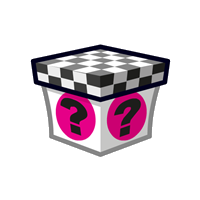
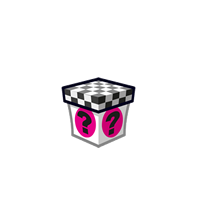
correcciones de  tamaños de cajas y funciones de recompensa

Changed region(s): [[0.15, 0.21, 0.87, 0.81]]

diff --git a/FRONTEND/juego/js/cajasSorpresa/box.js b/FRONTEND/juego/js/cajasSorpresa/box.js
@@ -6,20 +6,21 @@ var boxes={
 	2:{"root":"../img/componentes/cajas/caja2.png","rootOpen":"../img/componentes/cajas/caja2explosion.png"},
 	3:{"root":"../img/componentes/cajas/caja3.png","rootOpen":"../img/componentes/cajas/caja3explosion.png"},
 	4:{"root":"../img/componentes/cajas/caja4.png","rootOpen":"../img/componentes/cajas/caja4explosion.png"},
-	5:{"root":"../img/componentes/cajas/caja8.png","rootOpen":"../img/componentes/cajas/caja8explosion.png"},
+	5:{"root":"../img/componentes/cajas/caja5.png","rootOpen":"../img/componentes/cajas/caja5explosion.png"},
 	6:{"root":"../img/componentes/cajas/caja6.png","rootOpen":"../img/componentes/cajas/caja6explosion.png"},
 	7:{"root":"../img/componentes/cajas/caja7.png","rootOpen":"../img/componentes/cajas/caja7explosion.png"},
 	8:{"root":"../img/componentes/cajas/caja8.png","rootOpen":"../img/componentes/cajas/caja8explosion.png"}
 }
 var boxesDes ={
 	"boxMistery":{
-		"nameBox":["caja 1","caja2","caja 3","caja 4","caja 5","caja 6","caja 7"],
+		"nameBox":["caja 1","caja 2","caja 3","caja 4","caja 5","caja 6","caja 7","caja 8"],
 		"desc":["Esta caja ayudara al usuario con tiempo extra \n(20 segundos) para poder derrotar a su oponente.",
                  "Esta caja ayudara al usuario \ncon un aumento de la barra de energía. ",
                  "Esta caja ayudara al usuario \ncon una porción  pequeña de vida.",
-                 "Esta caja ayudara al usuario \ncon mayor velocidad a la hora de atacar.",
-                 "Esta caja deshabilitará el poder \nde ataque del usuario por 5 segundos",
-                 "Esta caja deshabilitará el poder \nde ataque del usuario por 10 segundos",
-                 "Esta caja deshabilitará el poder \nde ataque del usuario por 10 segundos"]
+                 "Esta caja robara vida al usuario \n en un 20 por ciento.",
+                 "Esta caja intercambia la barra de vida \n entre el usuario y el enemigo.",
+                 "Esta caja deshabilitará el poder \nde ataque del usuario por 3 segundos",
+                 "Esta caja ayudara al usuario con el poder, \n sera mas poderoso de lo normal.",
+                 "Esta caja deja al usuario y al oponente \n con un minimo de vida."]
 	}
 }

diff --git a/FRONTEND/juego/js/campoBatalla/funcionesBatalla.js b/FRONTEND/juego/js/campoBatalla/funcionesBatalla.js
@@ -391,6 +391,68 @@ var funcionesBatalla={
     giftbox:function(){
         return 20;
         },
+         showBox:function(){
+               if (!caja.visible) {
+                caja.visible = true;
+               };
+        },
+     hideBox:function(){
+               if (caja.visible) {
+                caja.visible = false;
+               };
+        },
+    catchedBox:function(){
+        caja.visible = false;
+        if (!openBox.visible) {
+            openBox.visible =true;
+            
+        }    
+    },
+    hideOpenBox:function(){
+               if (openBox.visible) {
+                openBox.visible = false;
+               };
+
+    },
+    giftbox:function(){
+        return 20;
+    },
+    giftlife:function(life){
+        if (life.width<200) {
+            if (life.width + 40 > 200) {
+                return 200;
+            }
+            else{
+                return life.width + 40;
+            }
+        }
+        else{
+            return 0;
+        }
+    },
+    steallife(life){
+        var vida = (life.width*20)/100;
+        return life.width-vida;
+    },
+    changelife(ulife,cpulife){
+        var blood = [ulife.width,cpulife.width];
+        return blood;
+    },
+    fatality(ulife,cpulife){
+        fatalityu = (ulife.width*1)/100;
+        fatalitycpu = (cpulife.width*1)/100;
+        newlife =[fatalityu,fatalitycpu];
+        return newlife;
+    },
+    powerdisable(power){
+        if (power.inputEnabled) {
+            return false;
+        };
+        if (!power.inputEnabled) {
+            return true;
+        };
+
+    },
     llamarSecuencia:function(indice){
         if(indice==1)
             this.primerMovimientoComputadora();

diff --git a/FRONTEND/juego/js/campoBatalla/batalla.js b/FRONTEND/juego/js/campoBatalla/batalla.js
@@ -46,7 +46,7 @@ var batalla = {
 	preload : function() {
 		this.preloadBar=this.add.sprite(this.game.world.centerX,this.game.world.centerY,'barraCarga');
 		this.load.setPreloadSprite(this.preloadBar);
-		//boxGame =game.rnd.integerInRange(1, 8);		
+		boxGame =game.rnd.integerInRange(1, 8);		
 		//timeShowBox = game.rnd.integerInRange(5,65);
 		funcionesBatalla.cargar(idPJ,idPC,boxGame);
 		//funcionesBatalla.cargar(idPJ,idPC);
@@ -239,12 +239,12 @@ var batalla = {
 			funcionesBatalla.showBox();
 			
 			if (sendGift) {
-				energiaVerdeJugador.width = energiaVerdeJugador.width +15;
+
 				if (boxGame == 1) {
 					gameTime = gameTime + funcionesBatalla.giftbox();
 				};
 				if (boxGame == 2) {
-					
+					energiaVerdeJugador.width = energiaVerdeJugador.width +15;
 				};
 				sendGift =false;
 			};
@@ -261,6 +261,7 @@ var batalla = {
 		}
 		if(ti == timeShowBox + 5){
 			funcionesBatalla.hideOpenBox();	
+			
 		}
 		game.physics.arcade.overlap(personajeJugador,ataquePlagio,funcionesBatalla.impactoPlagioC,false,this);
 		game.physics.arcade.overlap(personajeJugador,ataquePersonalidadC.bullets,funcionesBatalla.impactoAtaqueComputadora,false,this);

diff --git a/FRONTEND/juego/js/cajasSorpresa/cajaMisteriosa.js b/FRONTEND/juego/js/cajasSorpresa/cajaMisteriosa.js
@@ -36,6 +36,7 @@ var cajaMisteriosa = function(game){};
             game.load.spritesheet(nameBox[4], boxes[5].root);
             game.load.spritesheet(nameBox[5], boxes[6].root);
             game.load.spritesheet(nameBox[6], boxes[7].root);
+            game.load.spritesheet(nameBox[7], boxes[8].root);
 
 
             game.load.spritesheet(nameBox[0]+"explosion", boxes[1].rootOpen);
@@ -45,6 +46,7 @@ var cajaMisteriosa = function(game){};
             game.load.spritesheet(nameBox[4]+"explosion", boxes[5].rootOpen);
             game.load.spritesheet(nameBox[5]+"explosion", boxes[6].rootOpen);
             game.load.spritesheet(nameBox[6]+"explosion", boxes[7].rootOpen);
+            game.load.spritesheet(nameBox[7]+"explosion", boxes[8].rootOpen);
    
     
 
